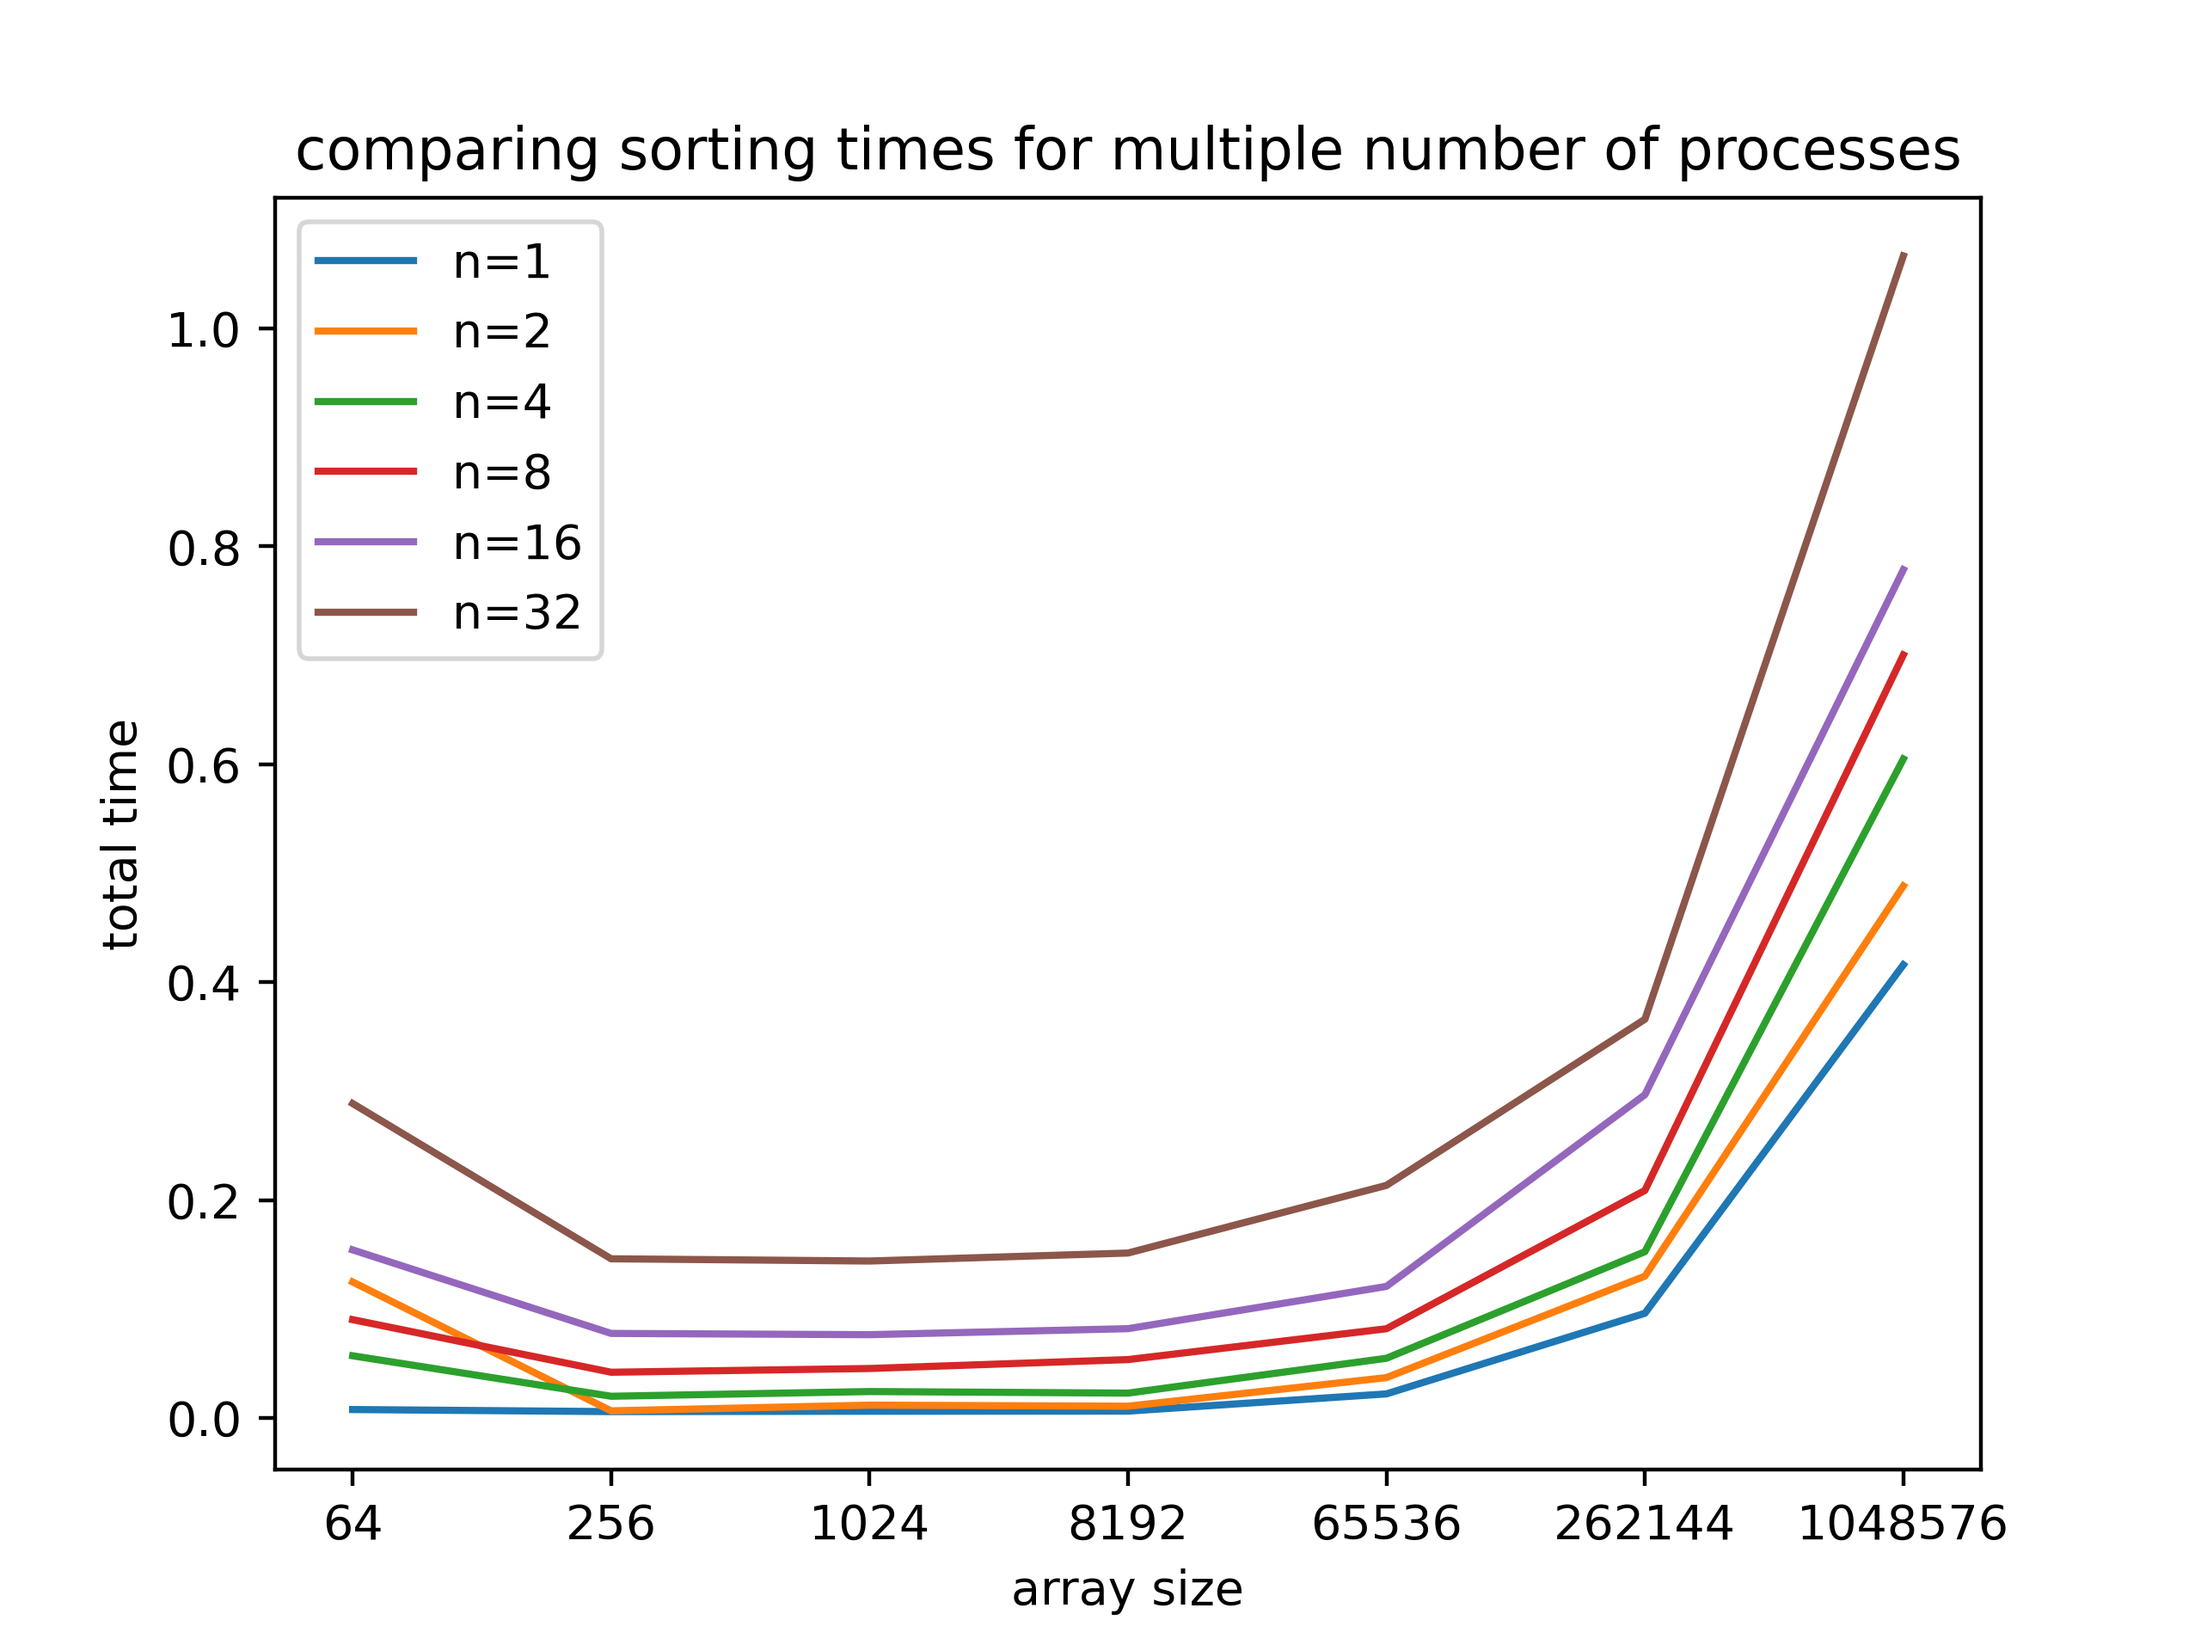
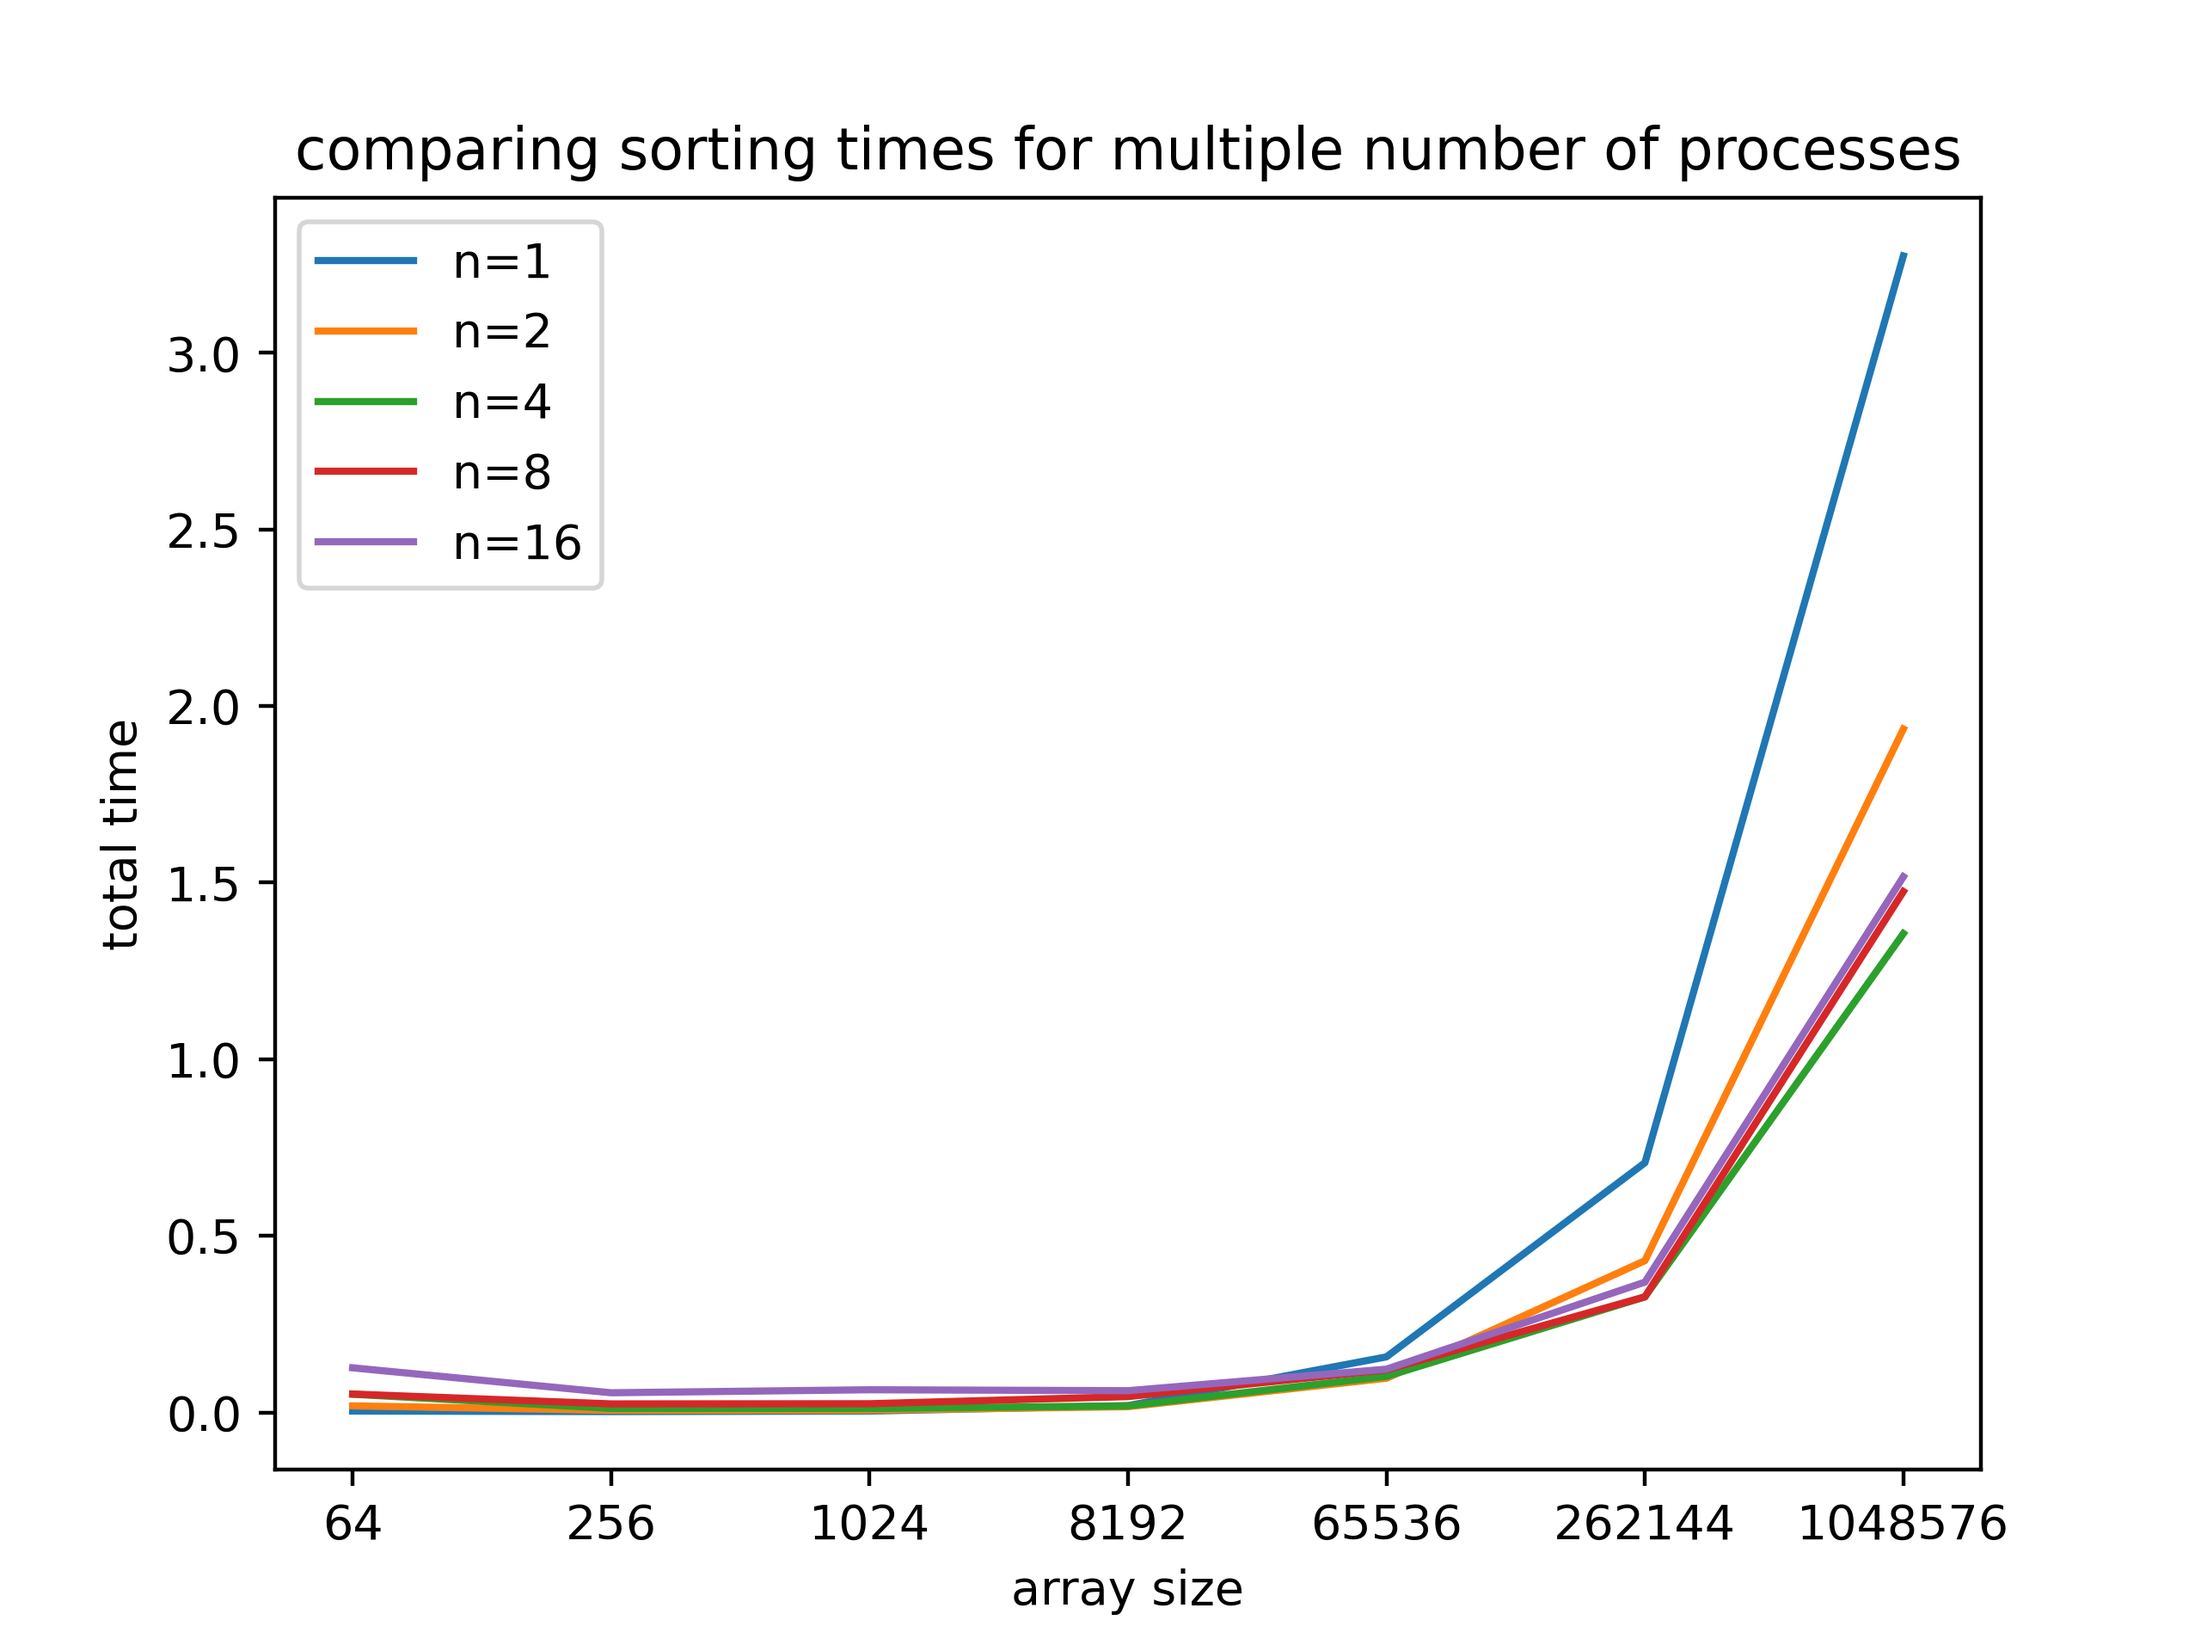
using mergesort instead of .sort

diff --git a/lab1/parallel_thread_sort.py b/lab1/parallel_thread_sort.py
@@ -2,8 +2,38 @@ import threading as td
 import sys
 from utils import generate_array, split_array
 
+def merge_sort(arr):
+    if len(arr) > 1:
+        mid = len(arr) // 2
+        left_arr = arr[:mid]
+        right_arr = arr[mid:]
+        
+        merge_sort(left_arr)
+        merge_sort(right_arr)
+
+        i, j, k = 0, 0, 0
+
+        while i < len(left_arr) and j < len(right_arr):
+            if left_arr[i] < right_arr[j]:
+                arr[k] = left_arr[i]
+                i += 1
+            else:
+                arr[k] = right_arr[j]
+                j += 1
+            k += 1
+        
+        while i < len(left_arr):
+            arr[k] = left_arr[i]
+            i += 1
+            k += 1
+
+        while j < len(right_arr):
+            arr[k] = right_arr[j]
+            j += 1
+            k += 1
+      
 def sort_array(arr):
-    arr.sort()
+    merge_sort(arr)
 
 def merge(left_arr, right_arr, merged_results):
     merged = []
@@ -89,4 +119,4 @@ def parallel_thread_sort(size=100, n_thread=4, arr=[], verbose=False):
 if __name__ == '__main__':
     size = int(sys.argv[1])
     n_thread = int(sys.argv[2])
-    result = parallel_thread_sort(size=size, n_thread=n_thread, verbose=False)
+    result = parallel_thread_sort(size=size, n_thread=n_thread, verbose=True)

diff --git a/lab1/parallel_process_sort.py b/lab1/parallel_process_sort.py
@@ -2,8 +2,38 @@ import multiprocessing as mp
 import sys
 from utils import generate_array, split_array
 
+def merge_sort(arr):
+    if len(arr) > 1:
+        mid = len(arr) // 2
+        left_arr = arr[:mid]
+        right_arr = arr[mid:]
+        
+        merge_sort(left_arr)
+        merge_sort(right_arr)
+
+        i, j, k = 0, 0, 0
+
+        while i < len(left_arr) and j < len(right_arr):
+            if left_arr[i] < right_arr[j]:
+                arr[k] = left_arr[i]
+                i += 1
+            else:
+                arr[k] = right_arr[j]
+                j += 1
+            k += 1
+        
+        while i < len(left_arr):
+            arr[k] = left_arr[i]
+            i += 1
+            k += 1
+
+        while j < len(right_arr):
+            arr[k] = right_arr[j]
+            j += 1
+            k += 1
+
 def sort_array(arr, queue):
-    arr.sort()
+    merge_sort(arr)
     queue.put(arr)
 
 def merge(left_arr, right_arr, queue):

diff --git a/lab1/script.py b/lab1/script.py
@@ -5,7 +5,7 @@ from parallel_thread_sort import parallel_thread_sort
 import time
 
 array_sizes = [64, 256, 1024, 8192, 65536, 262144, 1048576]
-n_divisions = [1, 2, 4, 8, 16, 32]
+n_divisions = [1, 2, 4, 8, 16]
 
 process_time = []
 thread_time = []
